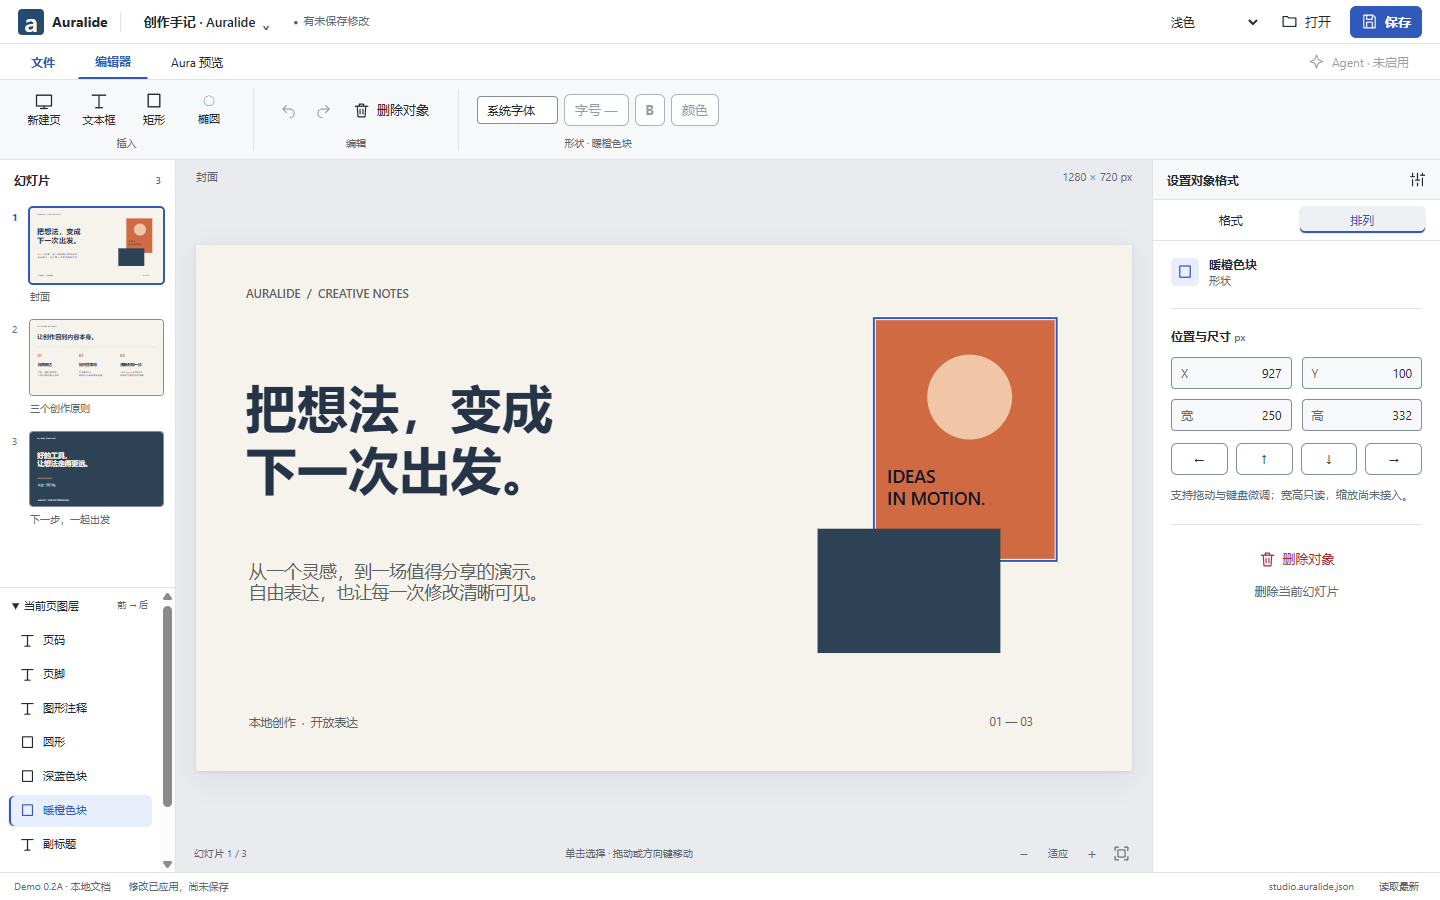
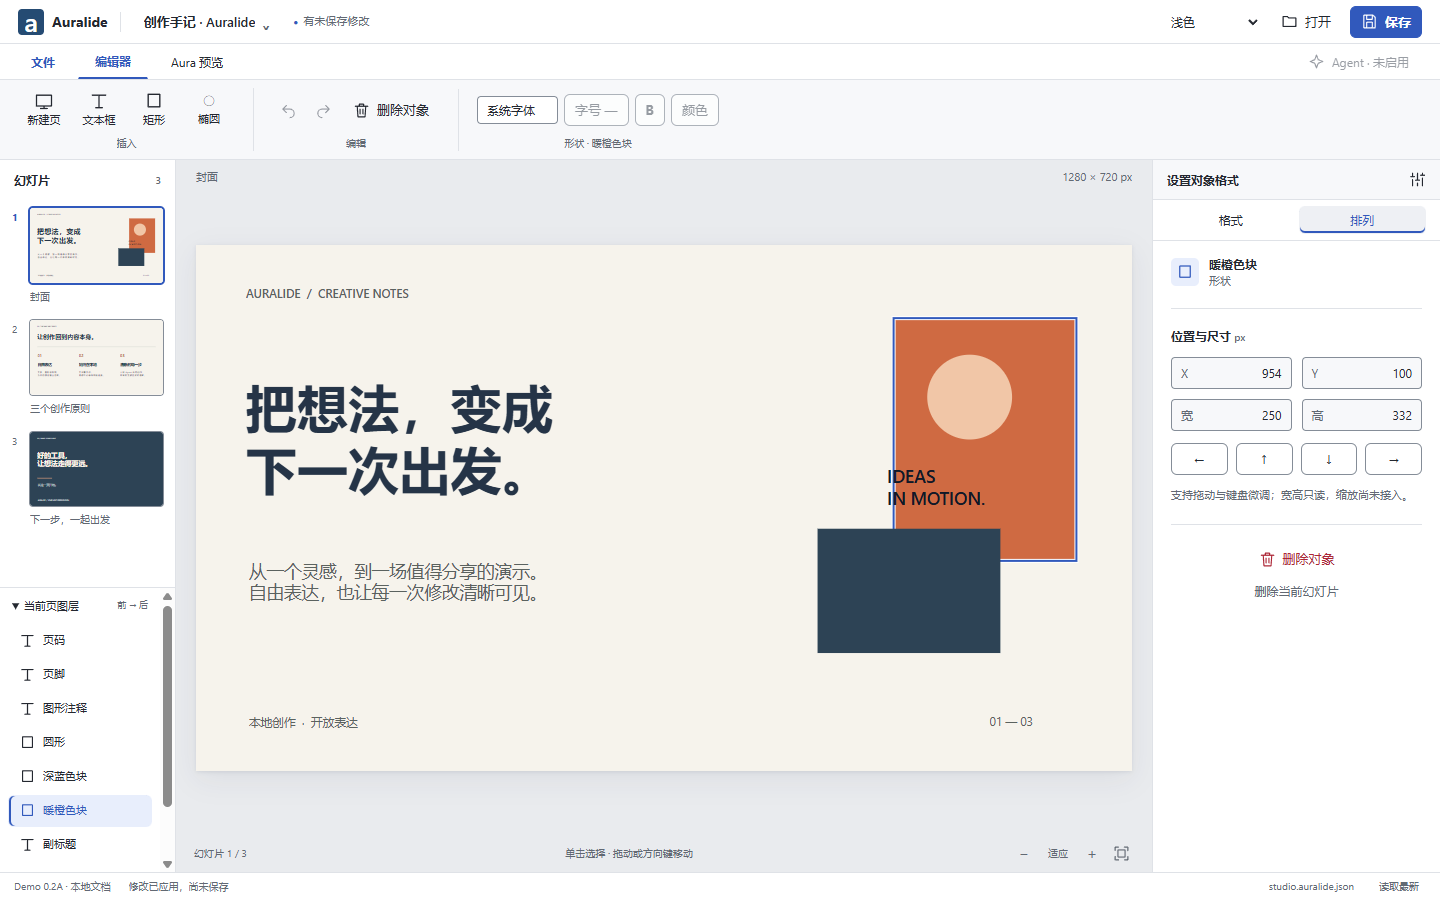
fix(desktop): keep diagnostics out of product menus and verify native sizing

Changed region(s): [[0.7188, 0.3422, 0.75, 0.6222], [0.5938, 0.3422, 0.625, 0.5911]]

diff --git a/apps/desktop/src/renderer/document-preview.tsx b/apps/desktop/src/renderer/document-preview.tsx
@@ -1118,15 +1118,6 @@ export function DocumentPreview({ diagnostics = false }: { diagnostics?: boolean
             <p className="property-note">
               方向键移动 1 px；Shift + 方向键移动 10 px。输入框保留原生编辑快捷键。
             </p>
-            <button
-              onClick={() => {
-                closeModal();
-                window.location.hash = '#diagnostics';
-                window.location.reload();
-              }}
-            >
-              开发者诊断
-            </button>
           </div>
         ) : (
           <p>

diff --git a/apps/desktop/src/main/main.ts b/apps/desktop/src/main/main.ts
@@ -155,6 +155,8 @@ const createWindow = (): BrowserWindow => {
     height: 800,
     minWidth: 1080,
     minHeight: 700,
+    // CI's macOS work area is smaller than the required visual-review sizes.
+    enableLargerThanScreen: !app.isPackaged && app.commandLine.hasSwitch('auralide-visual-test'),
     show: false,
     backgroundColor: '#101014',
     webPreferences: {

diff --git a/README.md b/README.md
@@ -4,10 +4,10 @@
 freedom of HTML/CSS/SVG with direct manipulation, on top of a structured document model that humans
 and AI agents edit through the same validated command layer.
 
-> Status: **P2A — experimental Durable Document Foundation**, on the unmerged P1.5 PR stack.
+> Status: **Demo 0.2A — A2 Desktop Shell**, on the unmerged P1.5/P2A PR stack.
 > Windows x64 and macOS ARM64 are the first-release targets. The desktop provides a Core-driven
-> workbench, validated commands, isolated Aura preview and local JSON save/reopen. Undo history
-> remains session-only; full editor UI, external Agent Apply, arbitrary HTML import and export are
+> A2 editor shell, six validated Core edits, isolated Aura workspace and local JSON save/reopen.
+> Document Undo/Redo controls, styling/resizing, external Agent Apply, arbitrary HTML import and export are
 > deferred. See [P2 plan](docs/architecture/p2-vertical-slice-plan.md) and
 > [Architecture V2 proposal](docs/architecture/architecture-v2.md). Historical P0/P1 reports remain unchanged.
 
@@ -85,18 +85,18 @@ Apache-2.0 — see [`LICENSE`](LICENSE) and [`NOTICE`](NOTICE).
 
 ## P1.5 preview
 
-Supported development targets are Windows x64 and macOS ARM64; see [platform contract](docs/architecture/platform-support.md). The bounded [Aura Browser POC](docs/architecture/aura-browser.md) adds a Core preview, reviewed HTML Lab fixture, stable-ID inspection and screenshot capture. It has no arbitrary page loading or script execution. Build the workspace before starting the desktop. The UI remains a diagnostic shell with [direction A selected](docs/design/ui-architecture.md); B/C remain references and full shell implementation is deferred.
+Supported development targets are Windows x64 and macOS ARM64; see [platform contract](docs/architecture/platform-support.md). The bounded [Aura Browser POC](docs/architecture/aura-browser.md) adds a Core preview, reviewed HTML Lab fixture, stable-ID inspection and screenshot capture. It has no arbitrary page loading or script execution. Build the workspace before starting the desktop. The owner-selected A2 shell integrates Editor and Aura workspaces; diagnostics are an explicit developer-only fragment. See the [Demo 0.2A report](docs/reports/demo-v02-shell-report.md) for actual screenshots, capability limits and acceptance.
 
 ## Save and reopen (P2A)
 
 Build with `pnpm build`, then `pnpm --filter @auralide/desktop start`. Apply a text edit and choose
-**Save document** in the workbench. Main opens a native file dialog; no path is accepted from the
+**保存** in the title bar. Main opens a native file dialog; no path is accepted from the
 renderer. Subsequent saves retain uniquely named `.bak` recovery files beside the document. These
-backups are not automatically deleted. Reopen with **Open document**, including after restarting.
+backups are not automatically deleted. Reopen with **打开**, including after restarting.
 Opening or closing over unsaved edits requires confirmation. A file changed by another program is
 refused rather than silently overwritten. Documents are limited to 20 MiB in this experimental slice.
 
 Reopen preserves content/IDs, starts empty undo history and advances the session revision to reject
-stale intent. Refresh Aura after reopening. This snapshot format does not persist command history.
+stale intent. Switch to Aura to preview the reopened current slide. This snapshot format does not persist command history.
 Run `node apps/desktop/test/persistence.electron.mjs` after building to exercise real save/restart/
 reopen/HTML preview; only native dialog selections are stubbed in that test.

diff --git a/apps/desktop/README.md b/apps/desktop/README.md
@@ -48,8 +48,8 @@ node test/smoke.electron.mjs dev               # dev only
 ```
 
 Security smoke explicitly loads `#diagnostics`; ordinary launches never show those probes.
-The file menu exposes the diagnostic route for deliberate development use. To return, remove the
-fragment and reload. It launches a **real window** (Playwright's Electron driver), asserts the renderer, the frozen
+The diagnostic fragment is not linked from ordinary product menus. Developers may deliberately load
+that entry fragment; remove it and reload to return. It launches a **real window** (Playwright's Electron driver), asserts the renderer, the frozen
 preload surface, the allow-listed ping, the refusal path, the console for CSP violations, and the
 per-mode policy; then writes `test-artifacts/<mode>.png` (screenshot) and `test-artifacts/<mode>.json`
 (machine-readable evidence: checks, console log, main-process startup line). It needs a desktop
@@ -101,3 +101,8 @@ view before opening. There is no production iframe. See [Aura architecture](../.
 
 CDP renderer screenshots exclude sibling native views: the shell suite records shell and actual
 guest PNGs separately. They are labeled separately rather than passed off as a complete native capture.
+
+The unpackaged-only `--auralide-visual-test` argument permits oversized native windows on macOS CI's
+small virtual display for the exact 1280×800 / 1440×900 content-size checks. Ordinary launches retain
+the OS sizing policy; this does not grant any renderer or guest capabilities. Screen/work-area/scale
+metadata is recorded beside the shell results. These captures do not prove physical monitor fit.
